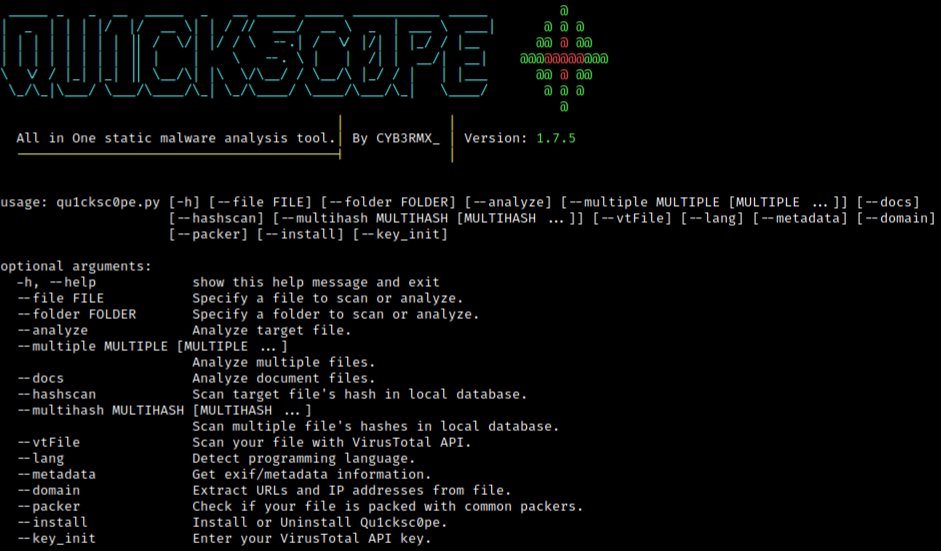
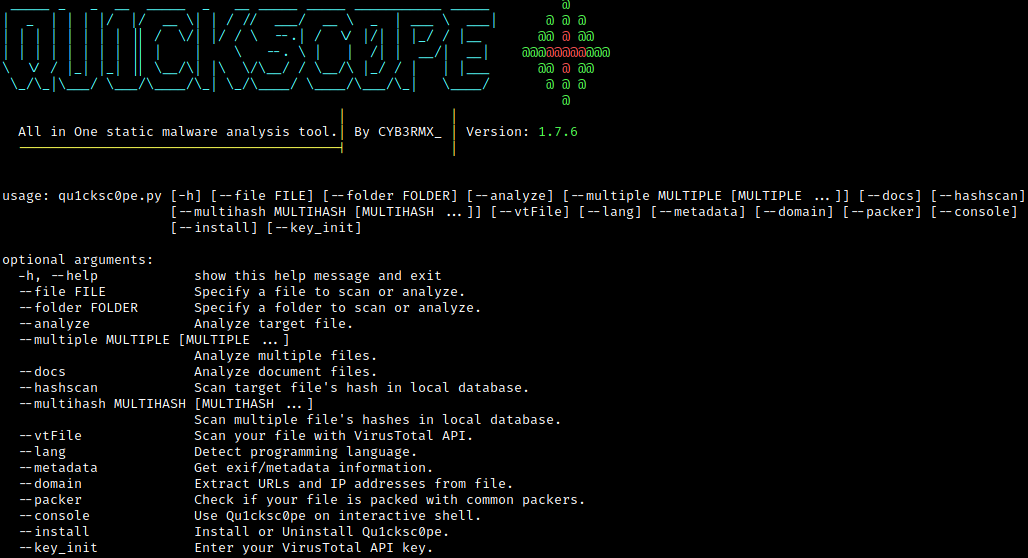
README Update

diff --git a/README.md b/README.md
@@ -94,6 +94,10 @@ Qu1cksc0pe aims to get even more information about suspicious files and helps to
 <b>Usage</b>: ```python3 qu1cksc0pe.py --file suspicious_executable --lang```<br>
 ![animation](.animations/langDet.gif)
 
+## Interactive shell
+<b>Usage</b>: ```python3 qu1cksc0pe.py --console```<br>
+![animation](.animations/console.gif)
+
 ## Domain
 <b>Usage</b>: ```python3 qu1cksc0pe.py --file suspicious_file --domain```<br><br>
 
